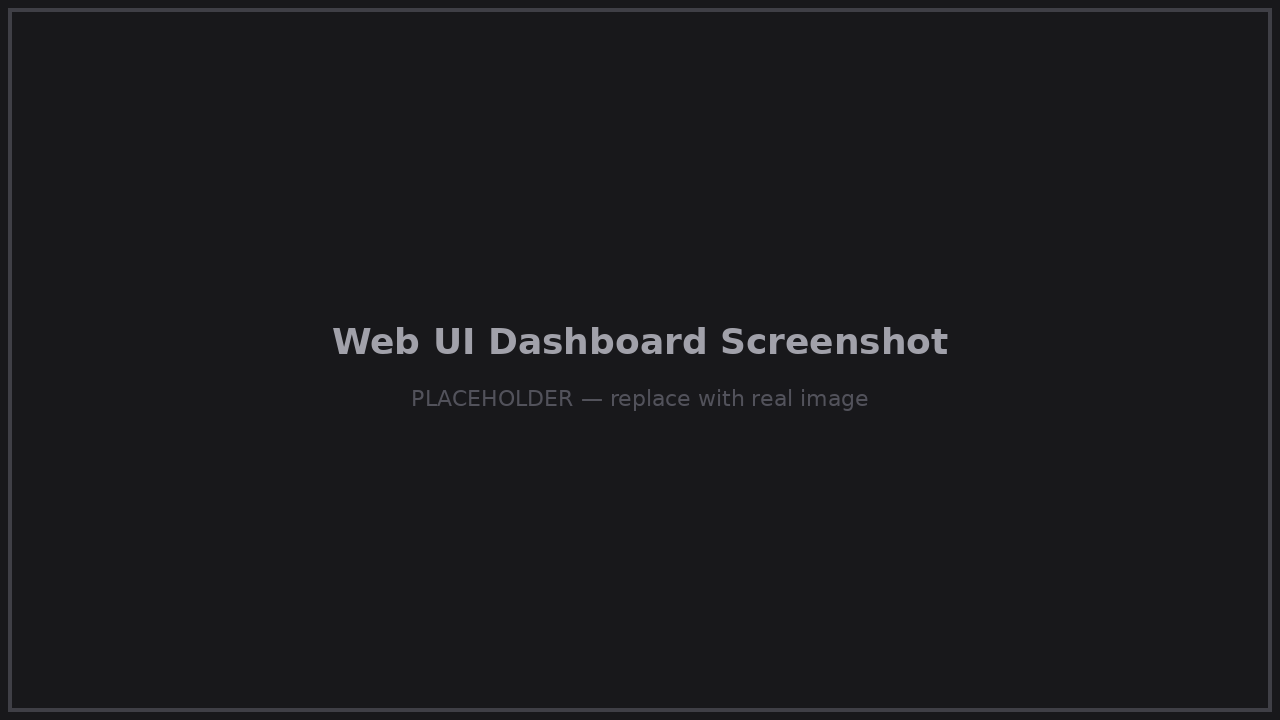
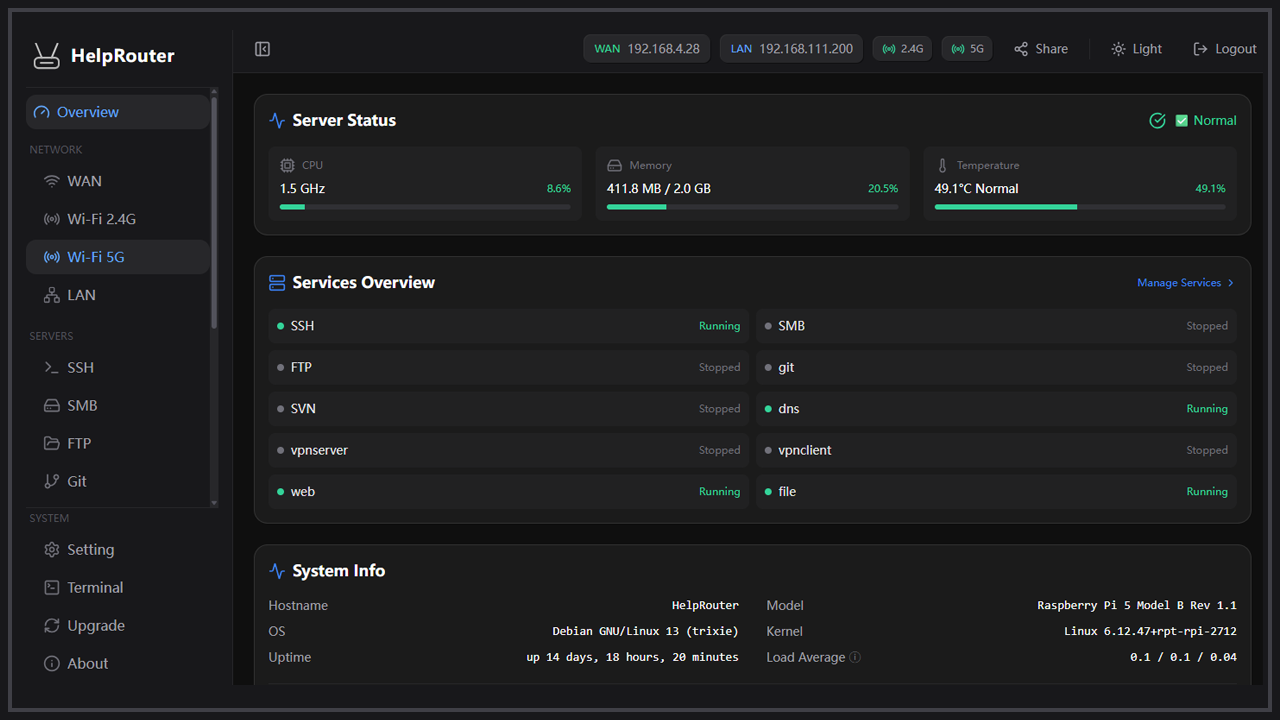
images update...

diff --git a/docs/hardware.md b/docs/hardware.md
@@ -8,16 +8,16 @@ Equivalent parts with the same specs also work — these are the exact models we
   <img src="images/hardware-assembled.png" alt="Assembled HelpRouter" width="720">
 </p>
 
-| # | Part | Notes |
-|---|------|-------|
-| 1 | **Raspberry Pi 5** | 4GB RAM or more (8GB recommended) |
-| 2 | **microSD card or USB SSD** | 16 GB or larger; SSD gives better longevity under 24/7 use |
-| 3 | **27W USB-C power supply** | Official Raspberry Pi 27W PSU recommended — the Pi 5 is picky about power |
-| 4 | **Waveshare PCIe to M.2 E-Key HAT** | For Raspberry Pi 5; supports NGFF (M.2 E-Key) wireless NICs, USB Bluetooth; HAT+ standard |
-| 5 | **MT7922 Wi-Fi 6E network card** | M.2 E-Key; drives the 2.4G + 5G dual-band hotspot |
-| 6 | **ALFA NETWORK AWUS036AXML** | 802.11axe WiFi 6E USB 3.0 adapter (AXE3000, tri-band); the upstream/repeater radio |
-| 7 | **Bingfu dual-band antennas (2-pack)** | 2.4/5/5.8 GHz 3dBi MIMO, RP-SMA male; connect to the MT7922 |
-| 8 | **GeeekPi aluminum case for Pi 5** | With active cooler; supports PCIe peripheral boards (X1000/X1001/X1003/N04/N05) |
+| # | Photo | Part | Notes |
+|---|-------|------|-------|
+| 1 | <img src="images/hw_01.png" width="120" alt="Raspberry Pi 5"> | **Raspberry Pi 5** | 4GB RAM or more (8GB recommended) |
+| 2 | <img src="images/hw_02.png" width="120" alt="microSD / USB SSD"> | **microSD card or USB SSD** | 16 GB or larger; SSD gives better longevity under 24/7 use |
+| 3 | <img src="images/hw_03.png" width="120" alt="27W USB-C PSU"> | **27W USB-C power supply** | Official Raspberry Pi 27W PSU recommended — the Pi 5 is picky about power |
+| 4 | <img src="images/hw_04.png" width="120" alt="Waveshare M.2 HAT"> | **Waveshare PCIe to M.2 E-Key HAT** | For Raspberry Pi 5; supports NGFF (M.2 E-Key) wireless NICs, USB Bluetooth; HAT+ standard |
+| 5 | <img src="images/hw_05.png" width="120" alt="MT7922 WiFi card"> | **MT7922 Wi-Fi 6E network card** | M.2 E-Key; drives the 2.4G + 5G dual-band hotspot |
+| 6 | <img src="images/hw_06.png" width="120" alt="ALFA AWUS036AXML"> | **ALFA NETWORK AWUS036AXML** | 802.11axe WiFi 6E USB 3.0 adapter (AXE3000, tri-band); the upstream/repeater radio |
+| 7 | <img src="images/hw_07.png" width="120" alt="Bingfu antennas"> | **Bingfu dual-band antennas (2-pack)** | 2.4/5/5.8 GHz 3dBi MIMO, RP-SMA male; connect to the MT7922 |
+| 8 | <img src="images/hw_08.png" width="120" alt="GeeekPi case"> | **GeeekPi aluminum case for Pi 5** | With active cooler; supports PCIe peripheral boards (X1000/X1001/X1003/N04/N05) |
 
 ## Assembly Notes
 
